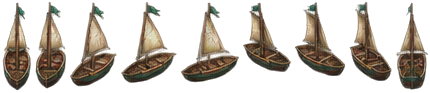
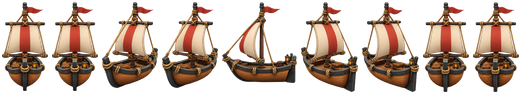
Toy-style Skiff from its 5-view set
Claude-Session: https://claude.ai/code/session_01FCp3PwgtusK1H34abZ7FvQ

diff --git a/CLAUDE.md b/CLAUDE.md
@@ -2710,7 +2710,8 @@ quests/NPCs/dialogue, cosmetics, audio beyond hooks, any backend.
   through the recolour. Fixed a creature-art test that rejected
   `<id>_flying` keys (the previous commit went out with it failing).
   472/472.
-- **Next up:** the other five hulls the same way (Skiff, Catamaran,
+- Skiff done the same way (same day).
+- **Next up:** the other four hulls the same way (Catamaran,
   Junk, Ironclad Steamer, Galleon) once the owner has their 5-view sets.
 
 ## Decisions log
